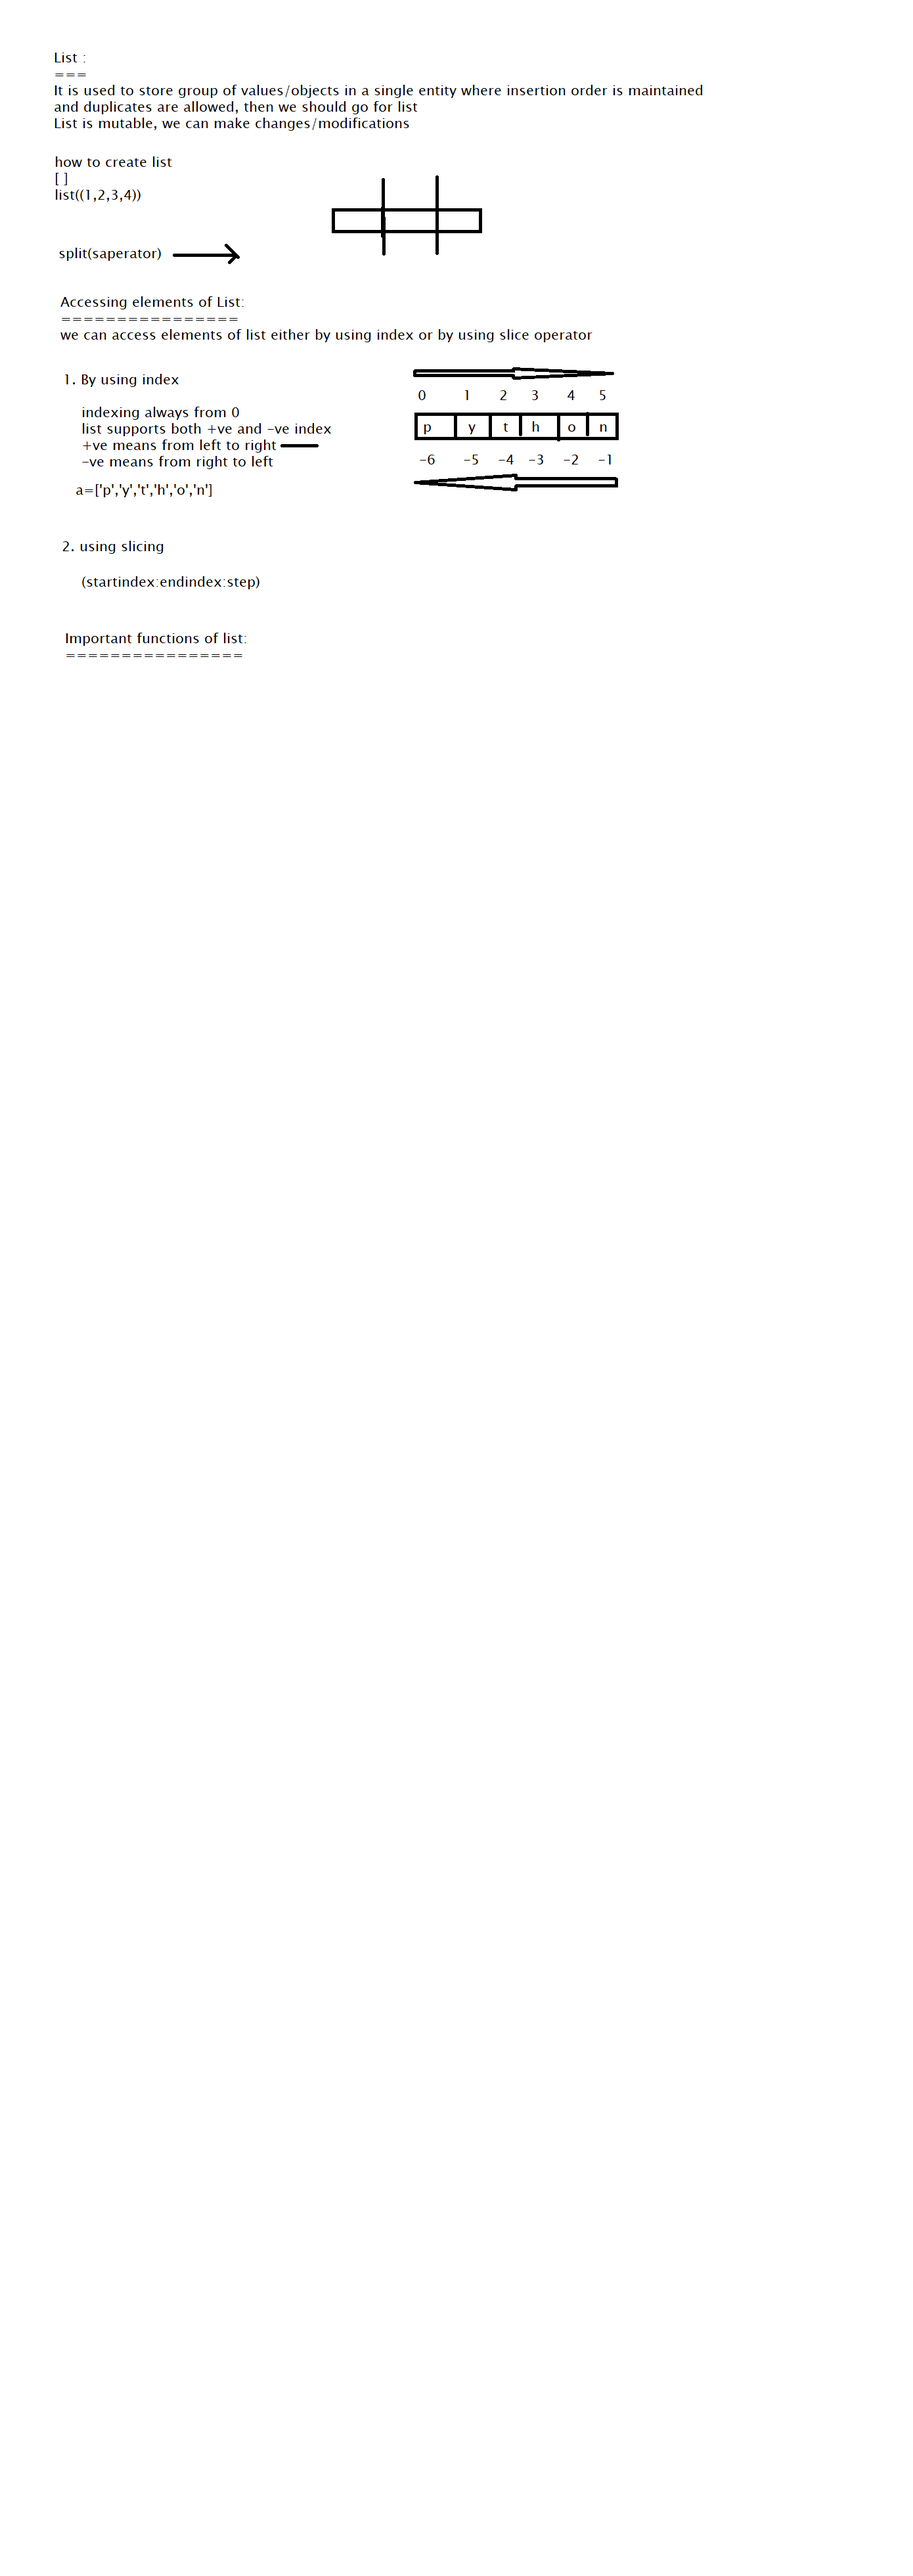
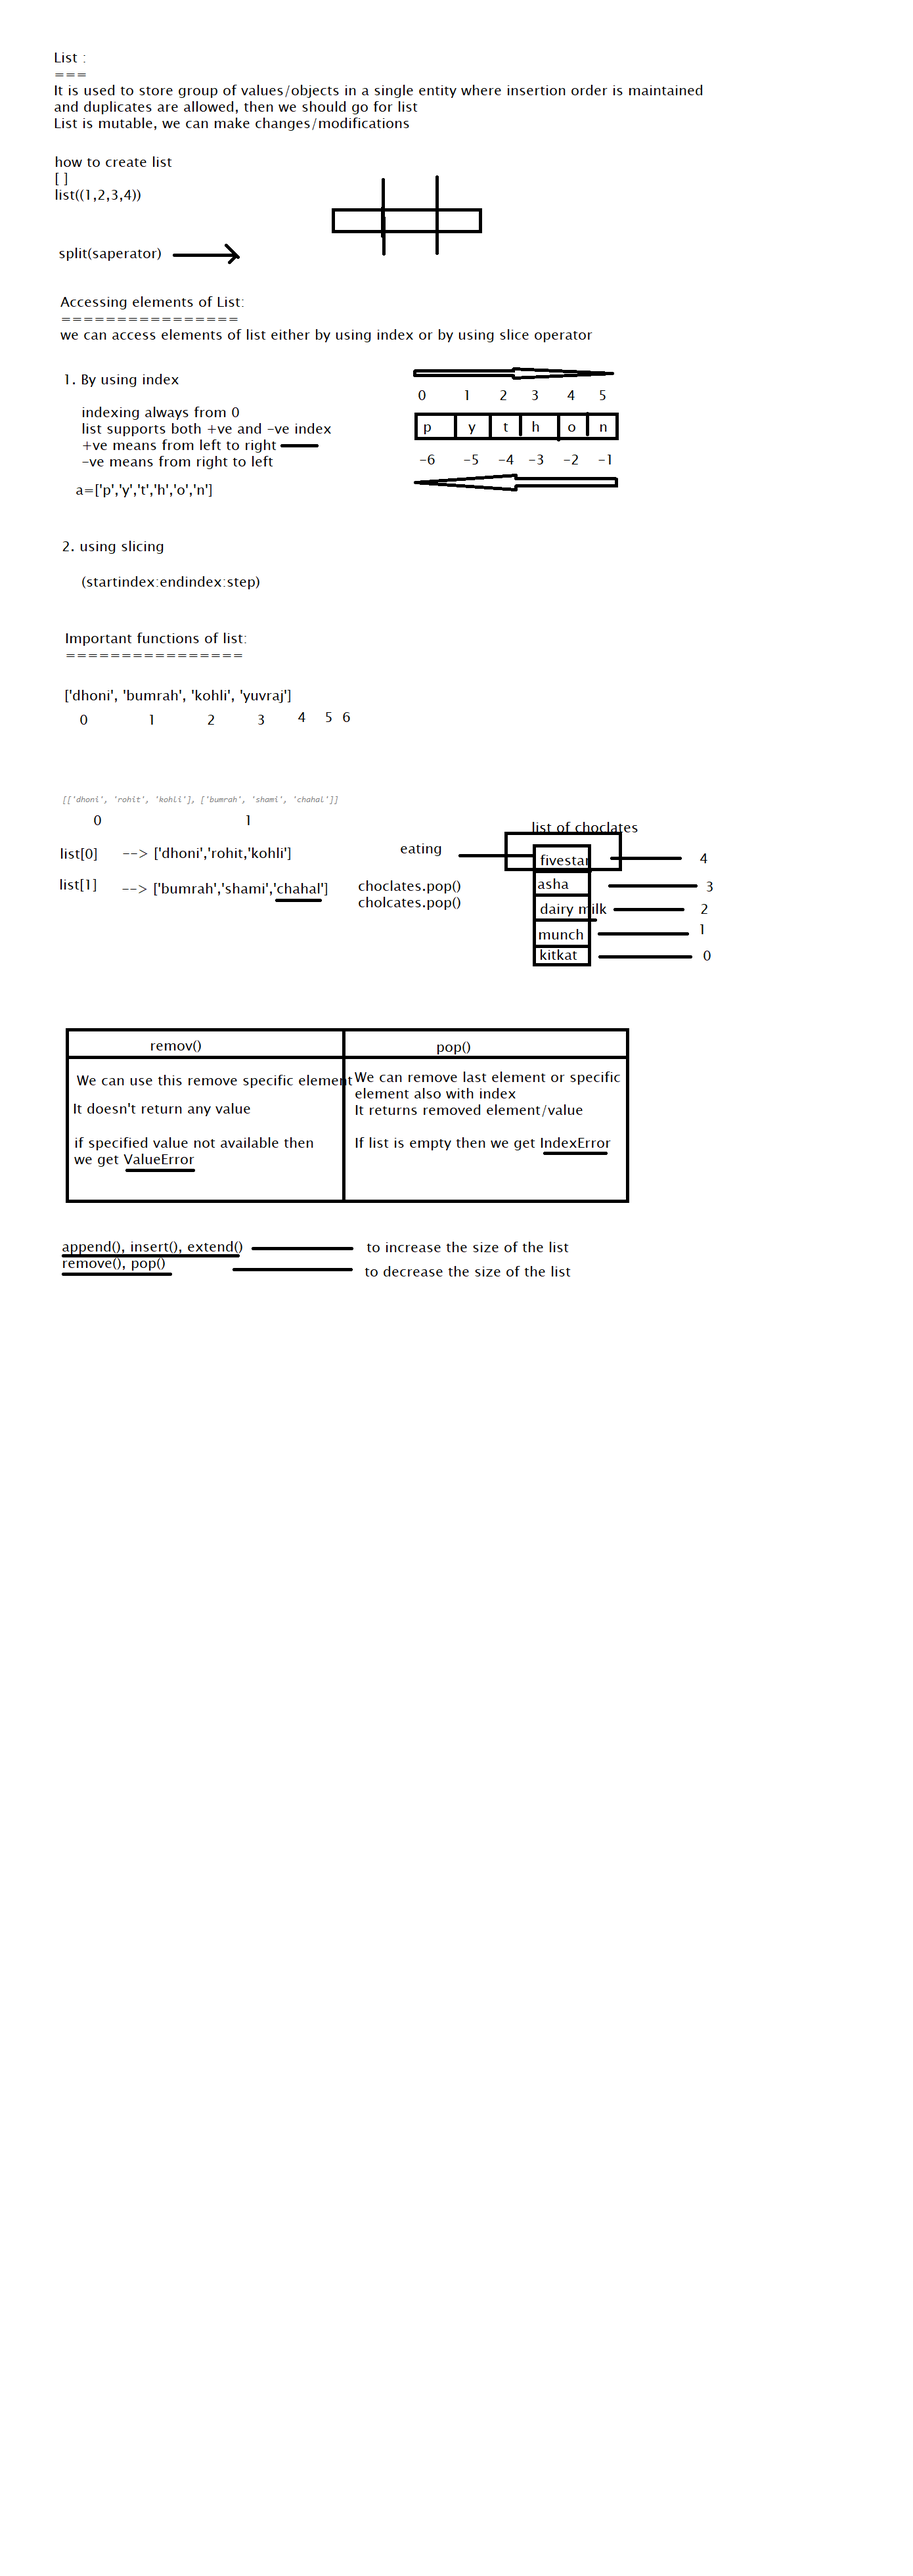
list datastructure2

diff --git a/list_datastructure.py b/list_datastructure.py
@@ -74,4 +74,65 @@ ls = [10,20,30,10,40,30,30]
 # print(batsmen)
 # batsmen.remove('yuvraj') # if the given item is not present the it returns ValueError
 
-# pop()
+# pop()  --> It removes and returns the last element of the list
+# this is the only function which manipulates the list and returns some element
+# choclates =['fivestar','asha','dairy milk','munch','kitkat']
+# print(choclates)
+# print(choclates.pop())
+# print(choclates)
+# print(choclates.pop())
+# print(choclates)
+# print(choclates.pop())
+# print(choclates.pop())
+# print(choclates.pop())
+# print(choclates)
+# if len(choclates)>0:   #
+#     print(choclates.pop())  # if the list is empty then pop() return IndexError
+# else:
+#     print("choclates is empty you cannot pop")
+# i = choclates.index('dairy milk')
+# print(choclates.pop(i))  # this will accept index and returns and removes given index element
+# print(choclates)
+
+#
+n= [10,5,20,3]
+# [3,5,10,20]   # ascending order --> from low to high
+# [20,10,5,3]   # descening order --> from high to low
+# print(n)
+# reverse() --> used to reverse order of elements
+# n.reverse()  # no matter what are the vlaues list contains, it will simple reverse the list
+# print(n[::-1])
+# print(n)
+
+# sort() -->
+# in list by default insertion order is preserved, if we want to sort the elements of list according to natural sorting order
+# then we should go for sort() function
+# n.sort()  --> to sort the values in ascending order
+n.sort(reverse=True)     #--> to sort the value in descedning order
+# n.reverse()
+print(n)
+# For numbers --> Default natural soring order is Ascending order
+# For string -->  default natural soring order is Alphabetiacal Order
+s=["Grapes","Banana","Apple","Pineapple","Apbc"]
+s.sort()
+# s.sort(reverse=True)
+print(s)
+s.clear()   # all the elements it removes at a time
+print(s)
+# Note : To use sort(), it is compulsory list should contain only homegenious elements otherwise it will return TypeError
+
+
+
+'''
+*        --> 1 
+* *          
+*        --> 3
+* *  
+*        --> 5
+'''
+for i in range(5):
+    if(i%2 == 0):
+        print("*")
+    else:
+        print("* *")
+    # for j in range
